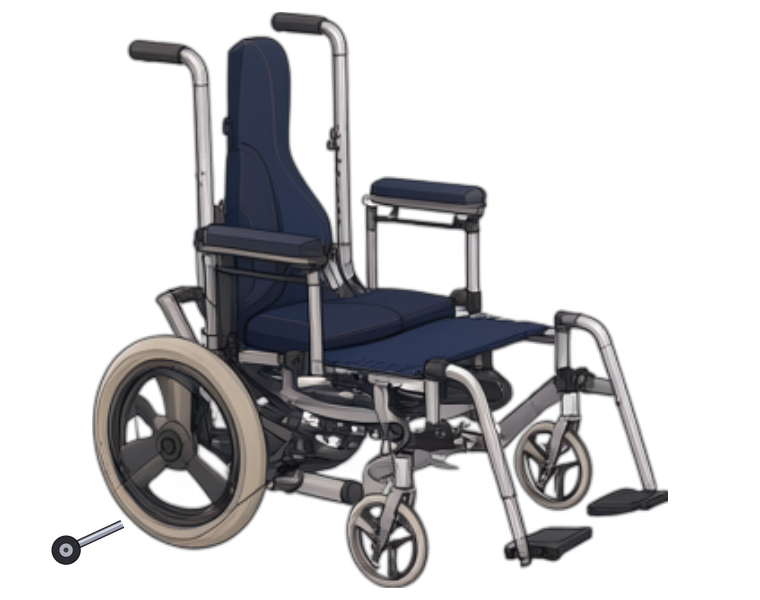
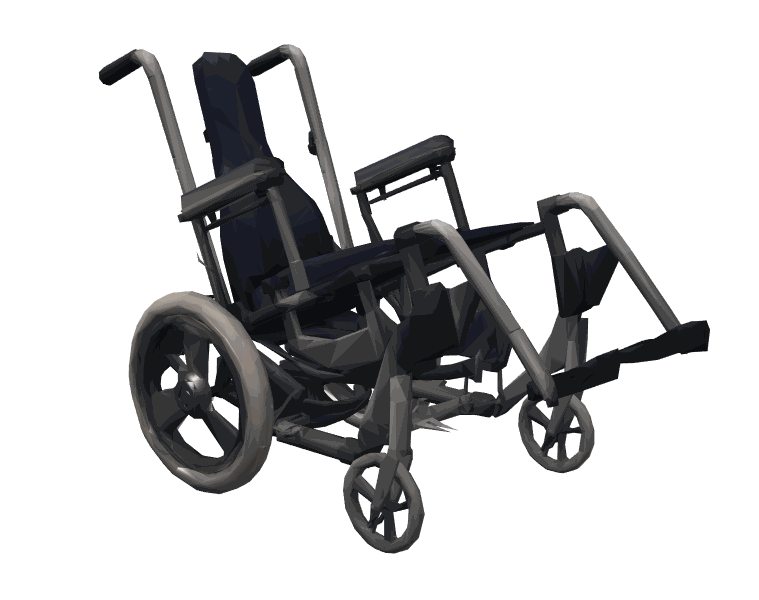
Агата: рисунок коляски = кадр новой модели — в браузере нет мелькания старого вида; кадры с первого пришедшего

diff --git a/game.py b/game.py
@@ -3435,6 +3435,7 @@ class Turntable:
         self.z0, self.ref, self.offsets = d["z0"], d["ref"], d["offsets"]
         self.pivot = tuple(d["pivot"])
         self.fmt = d.get("fmt", "png")
+        self.art_matched = d.get("art_matched", False)     # рисунок коляски = кадр исходного ракурса (art_from_turntable)
         self.centers = {p: [tuple(c) for c in cs] for p, cs in d["centers"].items()}
         self.centers.update(PART_CENTER_FIX.get(art, {}))
         self.frames, self.scaled, self.asked, self.failed, self.tries = {}, {}, False, False, {}
@@ -12488,8 +12489,21 @@ class Game:
         mesh = None if (_np is None or TT_FORCE) else get_ai_chair3d(art, lod=True)
         if mesh is None:                                  # браузер или коляска без модели: кадры поворота
             tt = get_turntable(art)
-            return tt if tt is not None and tt.update() else None
+            if tt is None:
+                return None
+            done = tt.update()                            # показываем с первого пришедшего кадра — не ждём все 36
+            if not (done or (tt.frames and not tt.failed)):
+                if not tt.art_matched:                    # (и если кадры не скачались — рисунок с кружками модели)
+                    return None
+                self._m3d_state()["t0"] = -1e9            # кадров ещё нет: рисунок на месте модели, без доворота
+                return tt
+            if getattr(self, "_tt_seen", None) != (art, id(self.cur)):     # кадры пришли, когда уже был виден
+                self._tt_seen = (art, id(self.cur))                         # рисунок (тот же ракурс) — без вводного
+                if self.t - getattr(self, "scene_t0", self.t) > 0.15:       # доворота: модель встаёт на место рисунка
+                    self._m3d_state()["t0"] = -1e9
+            return tt
         return mesh
+
 
     def _m3d_state(self):
         m = getattr(self, "m3d", None)
@@ -12741,6 +12755,8 @@ class Game:
         """Коляска из заранее снятых кадров: ближайший к ракурсу кадр, масштаб и тень — как у живой модели."""
         s = self._m3d_state()
         i = tt.index(yaw)
+        if i not in tt.frames and tt.frames:                       # кадры ещё идут: ближайший пришедший
+            i = min(tt.frames, key=lambda k: min(abs(k - i), tt.n - abs(k - i)))
         scale = fr.h / 1250.0 * zoom                              # логических пикселей на единицу модели
         ax, ay = fr.x + fr.w / 2, fr.y + fr.h * 0.54
         key = ("tt", i, tuple(fr), round(zoom, 4))
@@ -12754,6 +12770,9 @@ class Game:
             DR.polygon(sh, (0, 0, 0, 110), [(x / 10, y / 10) for x, y in foot])
             s["sh"], s["sh_key"] = TF.smoothscale(sh, fr.size), key
         surf.blit(s["sh"], fr)
+        if not tt.frames:                                          # кадры ещё идут: рисунок — тот же кадр, то же место
+            surf.blit(load_image(self.cur["chair_art"], tuple(self._chair_rect().size), AMBER), self._chair_rect())
+            return
         img = tt.image(i, scale * RS / tt.ref)
         if img is not None:
             ox, oy = tt.offsets[i]

diff --git a/art_tests/art_from_turntable.py b/art_tests/art_from_turntable.py
@@ -1,0 +1,55 @@
+"""Рисунок коляски (assets/chair_*.png) = кадр поворота в исходном ракурсе, точно в том месте и масштабе, где игра
+рисует модель. В браузере, пока кадры докачиваются, показывается рисунок — с ним подмена незаметна.
+python art_tests/art_from_turntable.py <job_id>   (старый рисунок -> art_tests/retired/)"""
+import os, sys, shutil
+os.environ["SDL_VIDEODRIVER"] = "dummy"
+os.environ["SDL_AUDIODRIVER"] = "dummy"
+os.environ["WNB_TT"] = "1"                               # компьютер тоже рисует кадры, как браузер
+HERE = os.path.dirname(os.path.abspath(__file__))
+sys.path.insert(0, os.path.join(HERE, ".."))
+import pygame
+pygame.init()
+pygame.display.set_mode((1280, 720))
+import game
+from PIL import Image
+
+g = game.Game(headless=True)
+g.start_job(sys.argv[1])
+art = g.cur["chair_art"]
+tt = g._m3d_mesh()
+assert isinstance(tt, game.Turntable), "у коляски нет кадров поворота"
+r = g._chair_rect()
+fr, zoom = g._m3d_frame()
+scale = fr.h / 1250.0 * zoom                             # логических px на единицу модели (как _draw_turntable)
+ax, ay = fr.x + fr.w / 2, fr.y + fr.h * 0.54
+yaw = g._chair_default_view()[0]                   # исходный ракурс (после вводного доворота)
+i = tt.index(yaw)
+ox, oy = tt.offsets[i]
+M = tt.ref / scale                                       # пикселей рисунка на логический пиксель (кадр — 1:1)
+name = os.path.splitext(art)[0]
+fp = os.path.join(game.ASSETS_DIR, game.TT_DIR, f"{name}_{i:02d}")
+if tt.fmt == "jpg":
+    frame = Image.open(fp + ".jpg").convert("RGBA")
+    frame.putalpha(Image.open(fp + ".a.png").getchannel("A"))
+else:
+    frame = Image.open(fp + ".png").convert("RGBA")
+W, H = round(r.w * M), round(r.h * M)
+canvas = Image.new("RGBA", (W, H), (0, 0, 0, 0))
+x, y = round((ax - r.x) * M + ox * tt.ref), round((ay - r.y) * M + oy * tt.ref)
+canvas.alpha_composite(frame, (x, y)) if x >= 0 and y >= 0 else canvas.paste(frame, (x, y), frame)
+over = (max(0, -x), max(0, -y), max(0, x + frame.width - W), max(0, y + frame.height - H))
+dst = os.path.join(game.ASSETS_DIR, art)
+os.makedirs(os.path.join(HERE, "retired"), exist_ok=True)
+old = os.path.join(HERE, "retired", art)
+if not os.path.exists(old):
+    shutil.copy(dst, old)
+canvas.save(dst, optimize=True)
+import json                                               # игра: пока кадры идут — рисунок, кружки уже от модели
+for n in ("index.json", "index_folk.json"):
+    ip = os.path.join(game.ASSETS_DIR, game.TT_DIR, n)
+    if os.path.exists(ip):
+        d = json.load(open(ip, encoding="utf-8"))
+        if art in d:
+            d[art]["art_matched"] = True
+            json.dump(d, open(ip, "w", encoding="utf-8"), separators=(",", ":"))
+print(f"{art}: {W}×{H}, кадр {i} в ({x}, {y}); за краем рисунка (л, в, п, н): {over}")

diff --git a/AGENTS.md b/AGENTS.md
@@ -303,6 +303,14 @@ python i18n_work/build_lang.py       # перевод полон
 ## Журнал изменений
 Формат: `ГГГГ-ММ-ДД — агент/модель — что сделано (файлы)`. Новые записи — **сверху**.
 
+- 2026-10-22 — Claude (Opus 5.5) — **рисунок коляски = кадр модели** (владелец: у Агаты в браузере сначала старый вид,
+  потом новый — пока кадры поворота докачиваются, игра показывает рисунок chair_*.png). `art_tests/art_from_turntable.py
+  <job_id>`: рисунок = кадр исходного ракурса, ровно в месте и масштабе модели (старый — art_tests/retired/), в index —
+  `art_matched: true`. Тогда `_m3d_mesh` отдаёт кадры сразу (Turntable): пока кадров нет — `_draw_turntable` рисует
+  рисунок, а кружки, тень и «+/−» уже от модели, без вводного доворота; подмена незаметна (разница — доли пикселя).
+  Кадры показываются с первого пришедшего (ближайший к ракурсу), не после всех 36. Сделано для Focus CR.
+  (game.py, art_tests/art_from_turntable.py, assets/chair_focuscr.png, assets/turntable/index.json)
+
 - 2026-10-22 — Claude (Opus 5.5) — **кадры поворота электроколясок — из Blender** (владелец: «гранёные, упрощённые»;
   упор — на электрические). Blender 4.2.23 LTS portable — `tools/blender-4.2.23-windows-x64` (вне git, `tools/` в
   .gitignore; папка `4.2/config` — настройки не на диске C). Конвейер: `python art_tests/blender_frames.py <арты>` →
